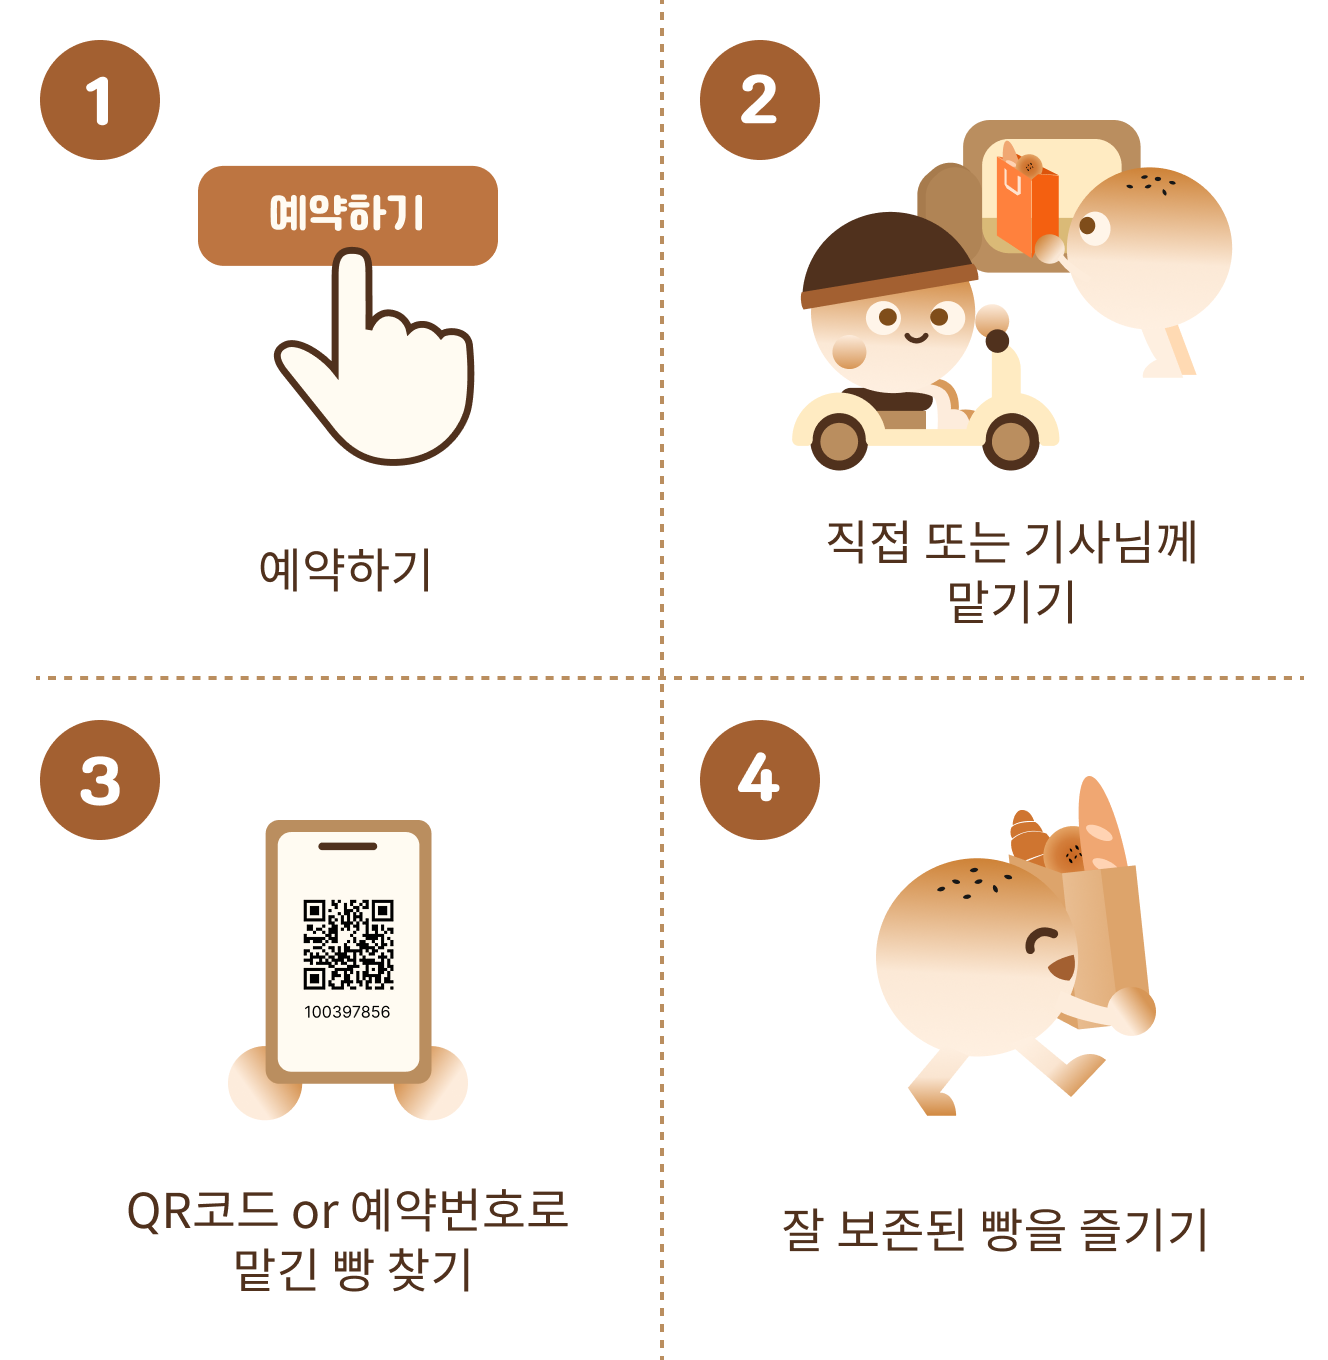
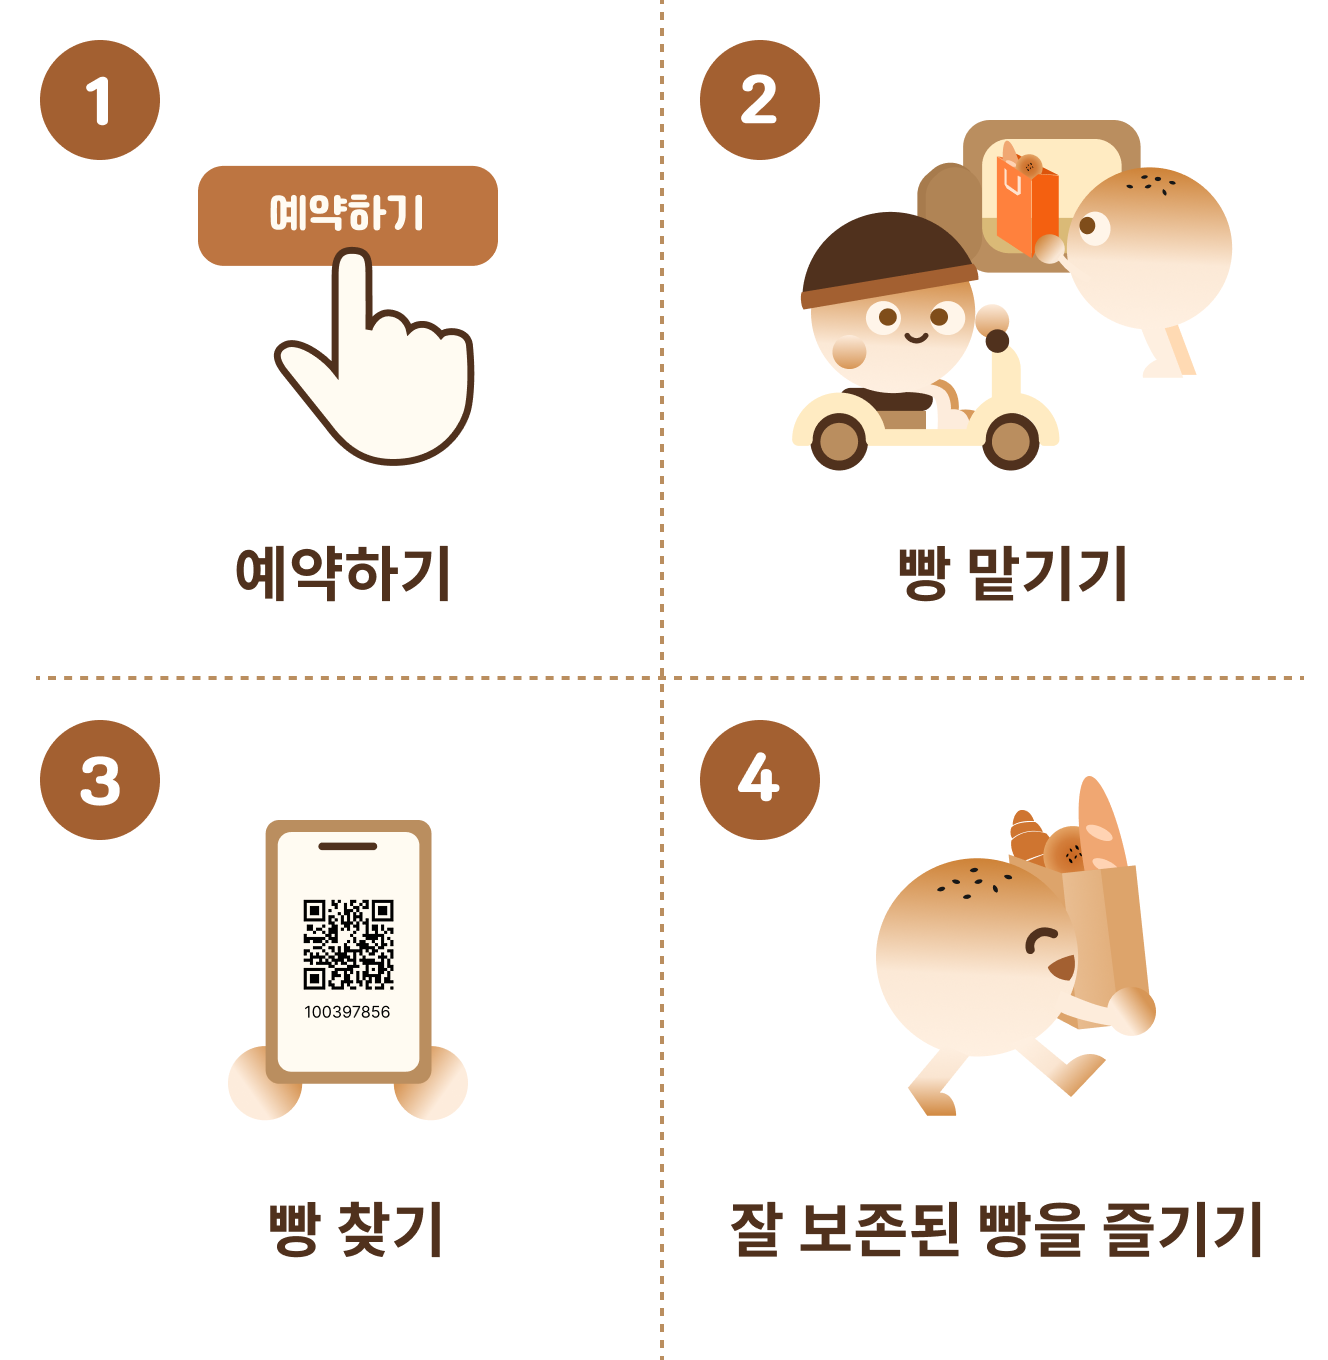
mypage edit

diff --git a/src/views/Mypage.vue b/src/views/Mypage.vue
@@ -1,6 +1,181 @@
 <template>
-  마이페이지!!!!
+  <div class="mypage">
+    <div class="inner">
+      <h1>마이페이지</h1>
+      <h3 class="hello">안녕하세요 ○○○님!</h3>
+      <div class="mypage-box">
+        <div class="reser-txt">
+          <div class="reservation">예약내역</div>
+          <div class="boso">
+            <ul class="locker">
+              <li class="sub_list">
+                <h4>보관소</h4>
+                <p class="store">반월당역점</p>
+              </li>
+              <li class="sub_list">
+                <h4>방문일시</h4>
+                <p>25.09.23[11:00~11:30]</p>
+              </li>
+              <li class="sub_list">
+                <h4>방문빵집</h4>
+                <p class="bread">빵순이네</p>
+              </li>
+            </ul>
+            <ul class="methodlocker">
+              <li class="sub_list">
+                <h4>보관방법</h4>
+                <p class="store">기사님께 맡길게요</p>
+              </li>
+              <li class="sub_list">
+                <h4>온도</h4>
+                <p>상온보관</p>
+              </li>
+
+              <li class="sub_list">
+                <h4>부가서비스</h4>
+                <p class="bread">선택안함</p>
+              </li>
+              <button class="reser_change">예약 변경 및 취소</button>
+            </ul>
+          </div>
+          <div class="btn">
+            <button class="stemp">스탬프</button>
+            <button class="review">리뷰관리</button>
+          </div>
+        </div>
+
+        <ul class="reser-info">
+          <li>회원정보</li>
+          <li>이벤트</li>
+          <li>공지사항</li>
+          <li>자주묻는질문</li>
+          <li>고객센터</li>
+          <li>약관 및 정책</li>
+        </ul>
+      </div>
+    </div>
+  </div>
 </template>
+
 <script setup></script>
 
-<style lang="scss" scoped></style>
+<style lang="scss" scoped>
+@use "/src/assets/variables" as *;
+
+.mypage {
+  padding: 100px 0;
+  height: calc(100vh - 290px);
+  background-color: $bg-color;
+}
+h1 {
+  text-align: center;
+  padding-bottom: 50px;
+  font-family: "Cafe24Surround";
+  color: $point-color;
+}
+.hello {
+  font-size: 28px;
+  margin-bottom: 50px;
+}
+
+.mypage-box {
+  display: flex;
+  justify-content: space-between;
+  gap: 3%;
+}
+.reservation {
+  color: $font-color;
+  font-size: 22px;
+  font-weight: bold;
+  padding-top: 20px;
+  padding-left: 20px;
+}
+
+.reser-txt {
+  width: 60%;
+  padding: 2%;
+  background-color: #fff;
+  border-radius: 15px;
+}
+.reser-info {
+  width: 40%;
+  background-color: #fff;
+  border-radius: 15px;
+  padding-top: 40px;
+  font-family: "SpokaHanSansNeo";
+}
+.reser-info li {
+  padding-left: 40px;
+  padding-bottom: 30px;
+  font-family: "SpokaHanSansNeo";
+  color: $font-color;
+}
+.boso {
+  padding-left: 20px;
+  width: 100%;
+  display: flex;
+  padding-top: 40px;
+  justify-content: space-between;
+  gap: 5%;
+}
+.boso ul {
+  width: calc(100% / 2);
+}
+.boso ul li {
+  padding-bottom: 10%;
+}
+.boso ul li span {
+  padding-right: 0;
+}
+.sub_list {
+  display: flex;
+  gap: 5px;
+  font-family: "SpokaHanSansNeo";
+}
+.sub_list span {
+  padding-left: 10px;
+}
+h4 {
+  text-align: left;
+  width: 30%;
+}
+.methodlocker p {
+  margin-right: 10px;
+}
+
+.btn {
+  display: flex;
+  gap: 25px;
+  margin-top: 5%;
+}
+.btn button {
+  background-color: #ffebc2;
+  font-size: 24px;
+  width: 100%; /* 부모 폭에 맞추기 */
+  border: none;
+  font-family: "SpokaHanSansNeo";
+  color: $font-color;
+}
+button.stemp,button.review
+/* {  width: 286px;
+  height: 70px; */ {
+  border-radius: 15px;
+  padding: 2%;
+  font-family: "SpokaHanSansNeo";
+  font-size: $f-a-q-text-font;
+  font-weight: bold;
+}
+button.reser_change {
+border: none;
+background-color: #fff;
+margin-left: 146px;
+cursor: pointer;
+text-decoration: underline;
+}
+@media screen and (max-width: 768px)
+{
+  button.stemp,button.review{
+    font-size: $f-a-q-text-font;
+  }
+}
+</style>

diff --git a/src/components/main/Howto.vue b/src/components/main/Howto.vue
@@ -7,16 +7,16 @@
       <div class="step1_2_3_4">
         <ul class="web">
           <li>
-            <img src="/public/images/kmj/step1.png" alt="" />
+            <img src="/public/images/kmj/2.png" alt="" />
           </li>
           <li>
-            <img src="/public/images/kmj/step2.png" alt="" />
+            <img src="/public/images/kmj/1.png" alt="" />
           </li>
           <li>
-            <img src="/public/images/kmj/step3.png" alt="" />
+            <img src="/public/images/kmj/3.png" alt="" />
           </li>
           <li>
-            <img src="/public/images/kmj/step4.png" alt="" />
+            <img src="/public/images/kmj/4.png" alt="" />
           </li>
         </ul>
       </div>
@@ -41,19 +41,18 @@
     text-align: center;
     color: #fff;
     margin-bottom: 60px;
+    
   } // width: 1000px;
 }
 /* 기본: PC 이미지만 보이게 */
 .web {
-   display: grid;
-    grid-template-columns: repeat(auto-fit, minmax(200px, 1fr));
-    gap: 20px; /* 칸 사이 간격 */
-    li{
-      img{
-        width: 100%;
-      }
-      padding-bottom: 50px;
-    }
+  display: flex;
+  gap: 20px; /* 칸 사이 간격 */
+  justify-content: center;
+  padding-bottom: 50px;
+}
+ul li img {
+  width: 200px;
 }
 .mobile {
   display: none;

diff --git a/src/components/main/Price.vue b/src/components/main/Price.vue
@@ -64,8 +64,10 @@
   text-align: center;
   h2 {
     text-align: center;
+    font-family: "Cafe24Surround";
     margin-bottom: 50px;
     color: #a36031;
+    font-size:32px;
   }
   .notice_wrap {
     // display: flex;
@@ -76,6 +78,7 @@
     padding-bottom: 20px;
 
     h3 {
+  
       width: 100%;
       border: solid #ba8e5f;
       border-radius: 15px 15px 0 0;
@@ -111,7 +114,7 @@
       padding: 15%;
     }
   }
-  span {
+   span {
     color: #50311d;
     font-weight: bold;
     padding-top: 30px;

diff --git a/src/assets/_variables.scss b/src/assets/_variables.scss
@@ -8,7 +8,7 @@ $font-color: rgba(80, 49, 29, 1);
 /* Text-size styles */
 $title-font: 30px;
 $sub-font: 24px;
-$f-a-q-text-font: 20px;
+햐: 20px;
 $desc-text-font: 16px;
 $notice-text-font: 14px;
 $mobile-notice-font: 12px;
